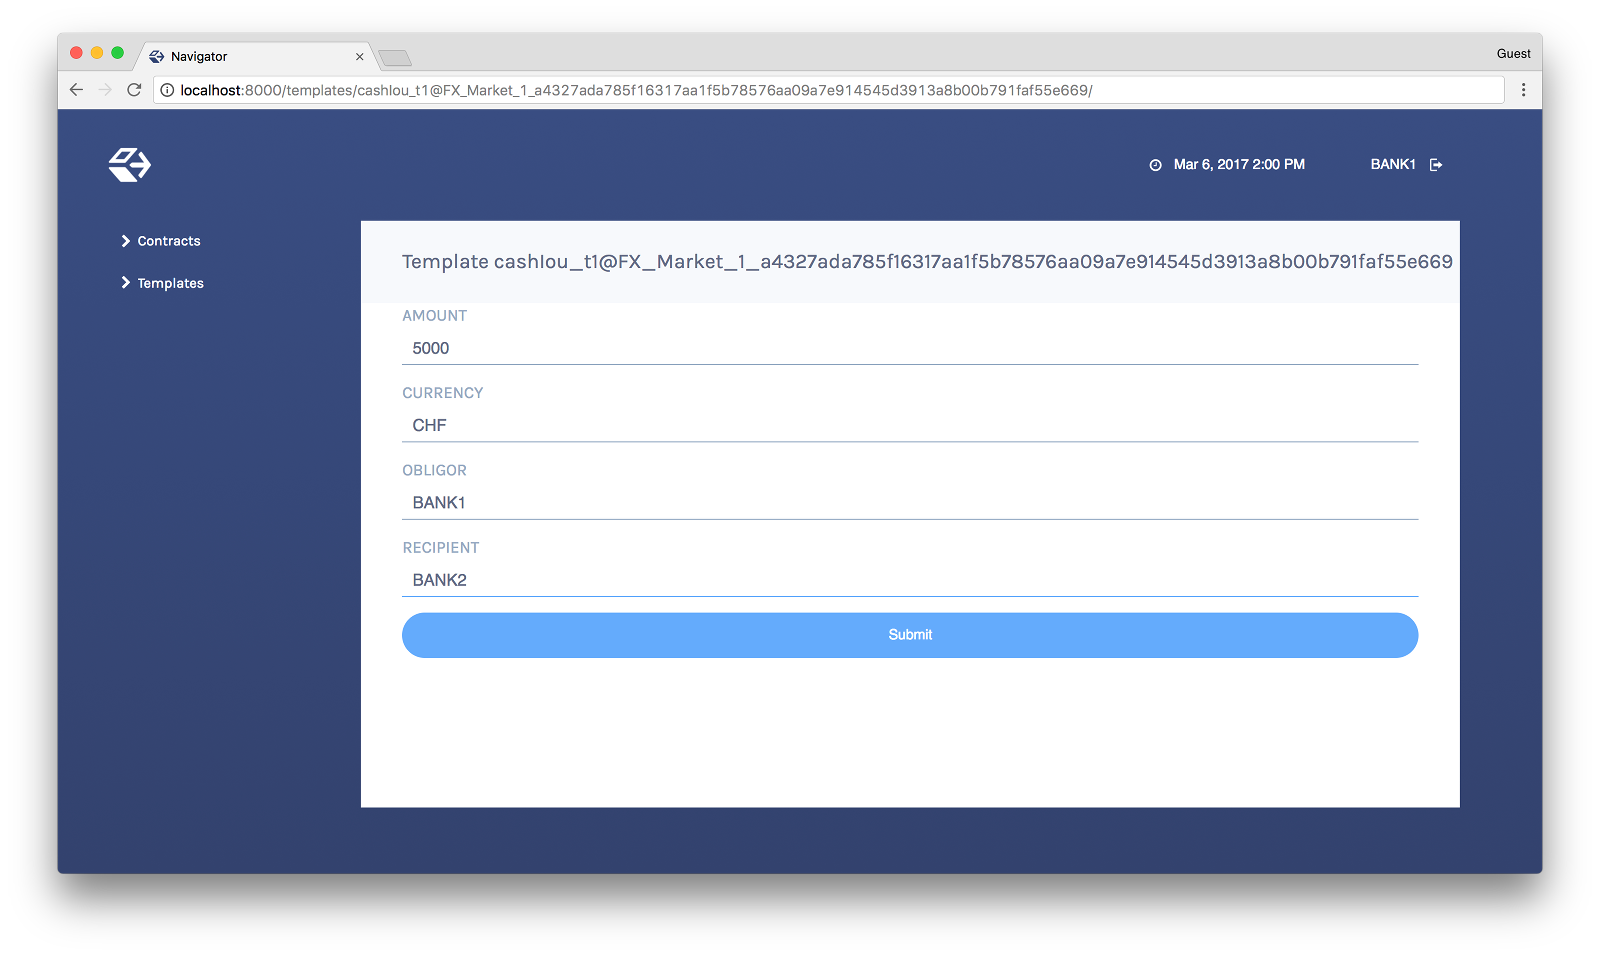
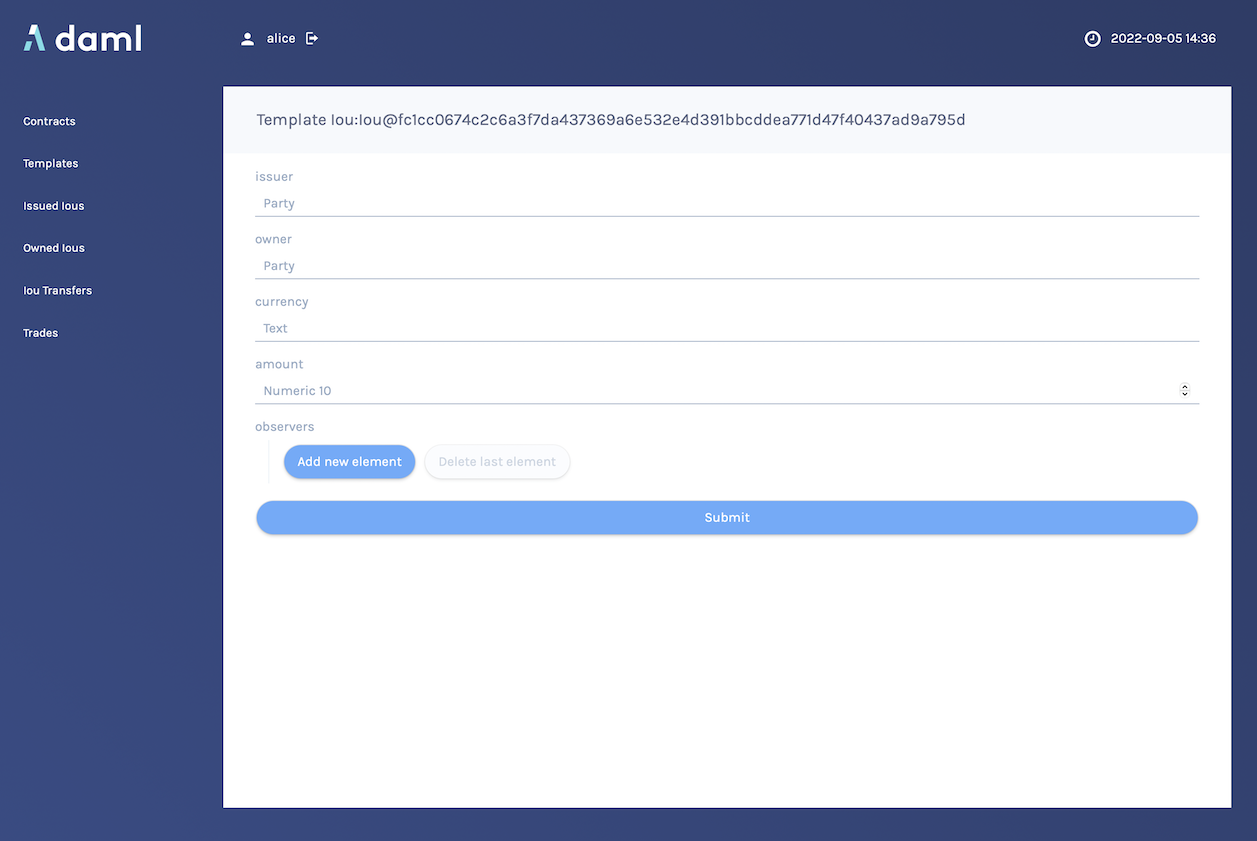
Update documentation images for navigator (#14942)
* Update documentation images for navigator

CHANGELOG_BEGIN
- [DOCUMENTATION] Update navigator images
CHANGELOG_END

* Update alt text for navigator images

CHANGELOG_BEGIN
CHANGELOG_END

diff --git a/docs/source/tools/navigator/index.rst b/docs/source/tools/navigator/index.rst
@@ -66,7 +66,7 @@ users.
 .. image:: images/choose-party.png
   :width: 30%
   :align: center
-  :alt: The Digital Asset Navigator home screen with dropdown list. The options are BANK1, BANK2, and OPERATOR.
+  :alt: The Digital Asset Navigator home screen with dropdown list. The options are alice, bob, eur and us.
 
 The main Navigator screen will be displayed, with contracts that the primary party of this user
 is entitled to view in the main pane and
@@ -80,14 +80,14 @@ display, include or exclude archived contracts, and exercise choices as describe
 
 To change the active user:
 
-#. Click the name of the current user in the top right corner of the screen.
+#. Click the name of the current user in the top left corner of the screen.
 
 #. On the home screen, select a different user.
 
 .. image:: images/sign-out.png
   :width: 30%
   :align: center
-  :alt: The upper right corner of the screen, location of the navbar. The current user is displayed next to the date and time.
+  :alt: The upper left corner of the screen, location of the navbar. The current user is displayed next to the date and time.
 
 You can act as different users in different
 browser windows. Use Chrome's profile feature
@@ -183,14 +183,14 @@ You can also view the list of contracts that are based on a particular template.
 .. image:: images/template-contracts-icon.png
   :width: 85%
   :align: center
-  :alt: The Templates view with the handshake icon and number of contracts for the fifth template on the list highlighted. Here, the number of contracts is four. 
+  :alt: The Templates view with the handshake icon and number of contracts for the 12th template on the list highlighted. Here, the number of contracts is one.
 
 **List of Contracts**
 
 .. image:: images/template-contracts.png
   :width: 85%
   :align: center
-  :alt: The result of clicking on the number highlighted in the last image - the Contracts view filtered to display only the four contracts based on the selected template.
+  :alt: The result of clicking on the number highlighted in the last image - the Contracts view filtered to display only the single contract based on the selected template.
 
 Viewing template and contract details
 =====================================
@@ -202,7 +202,7 @@ To view template or contract details, click on a template or contract in the lis
 .. image:: images/template-details.png
   :width: 85%
   :align: center
-  :alt: The Template Details view, showing the Amount, Currency, Obligor, and Recipient for a particular template.
+  :alt: The Template Details view, showing the Issuer, Owner, Amount, Currency, Observers, and Recipient for a particular template.
 
 **Contract Details**
 
@@ -268,7 +268,7 @@ To exercise a choice:
 .. image:: images/choice-exercise.png
   :width: 85%
   :align: center
-  :alt: The Contract Details view with the Consolidate choice selected.
+  :alt: The Contract Details view with the Mergeb choice selected.
 
 Or
 
